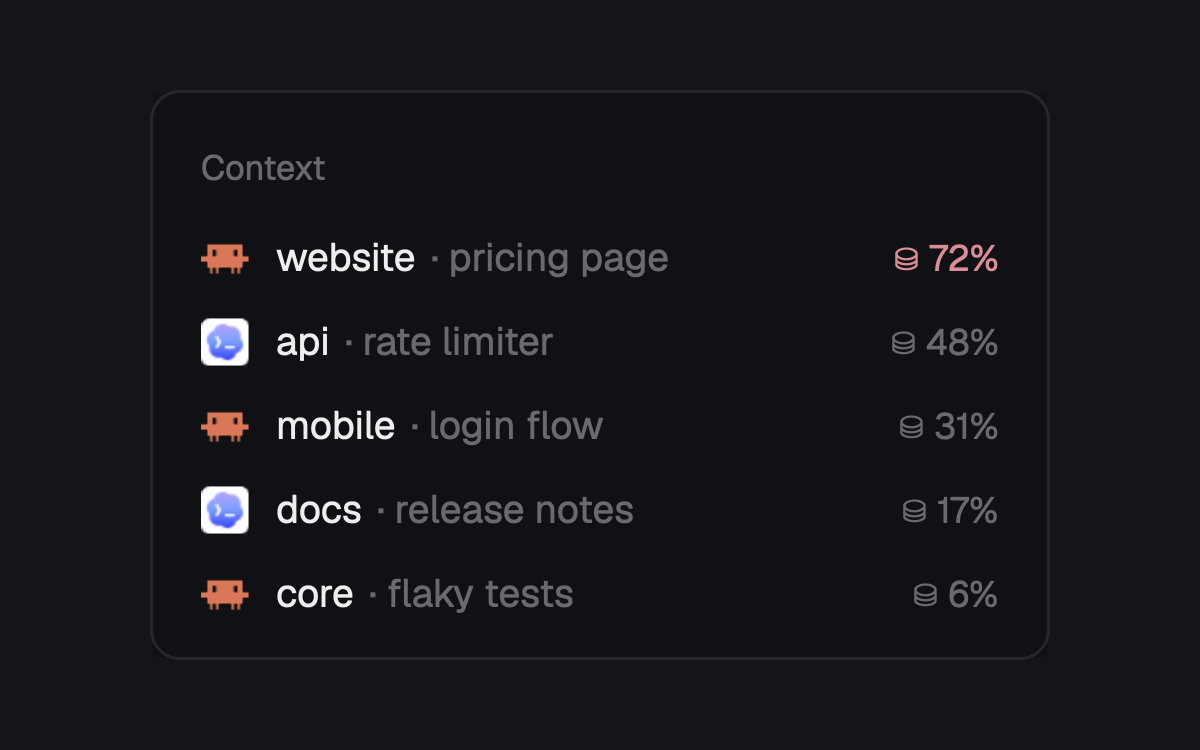
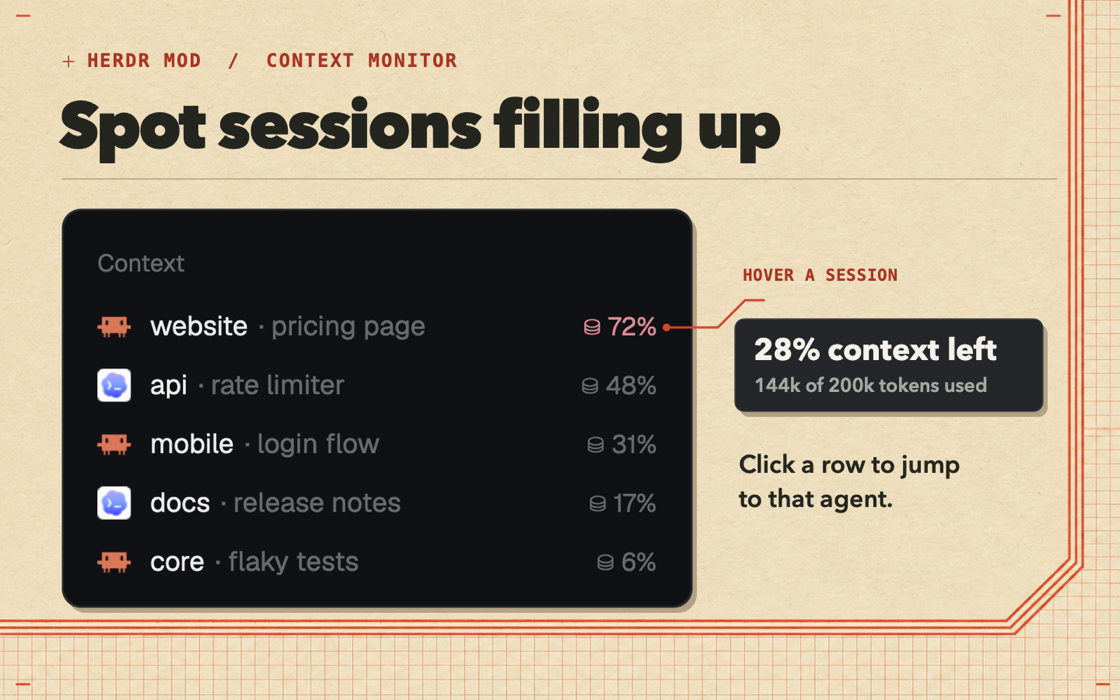
Refresh the Context Monitor gallery listing

diff --git a/herdr-app/RECIPE.md b/herdr-app/RECIPE.md
@@ -1,9 +1,8 @@
 # Context Monitor
 
-A small panel under your Agents list that shows how full each Claude Code, Codex
-or Antigravity agent's context window is, one line per agent, fullest first and red above
-50%. Hover a line for what's left and the tokens behind it; click it to jump to
-that agent. It can also float as a small window instead.
+See which local Claude Code, Codex, or Antigravity sessions are filling up.
+The fullest sessions appear first. Hover for token counts or click to jump to
+the agent. Dock the panel under Agents or open it as a floating window.
 
 ![Context Monitor](preview.png)
 

diff --git a/README.md b/README.md
@@ -9,7 +9,7 @@ Agents list or opens as a floating window. The fullest sessions appear first,
 and readings above 50% turn bold red. Hover for token counts or click a row to
 jump to that agent.
 
-<img src="herdr-app/preview.png" width="400" alt="The Herdr desktop app’s Context panel shows five agents, from 72% in red down to 6%">
+![Context Monitor ranks sessions by context used and shows the exact token count for the highlighted session](herdr-app/preview.png)
 
 ## Install
 
